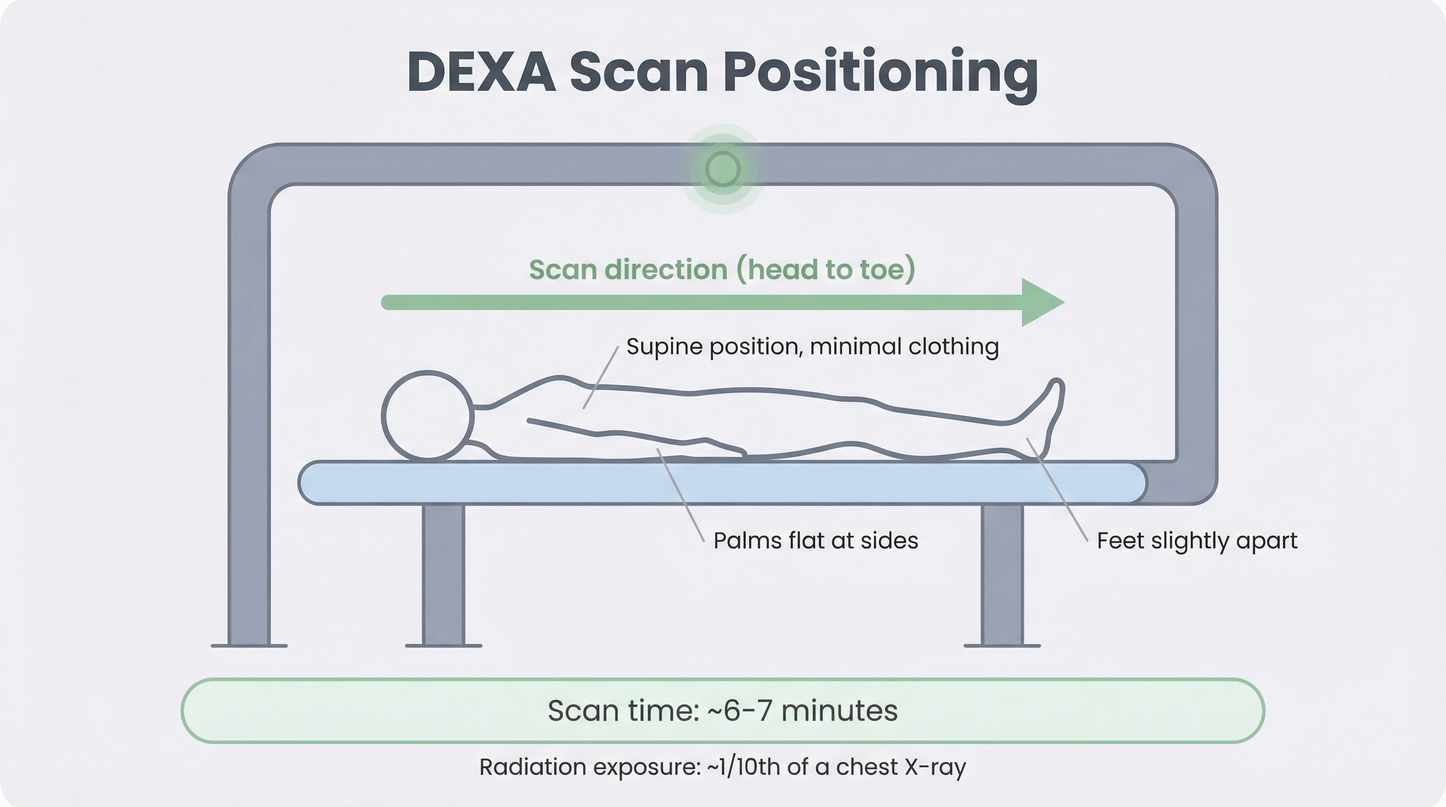
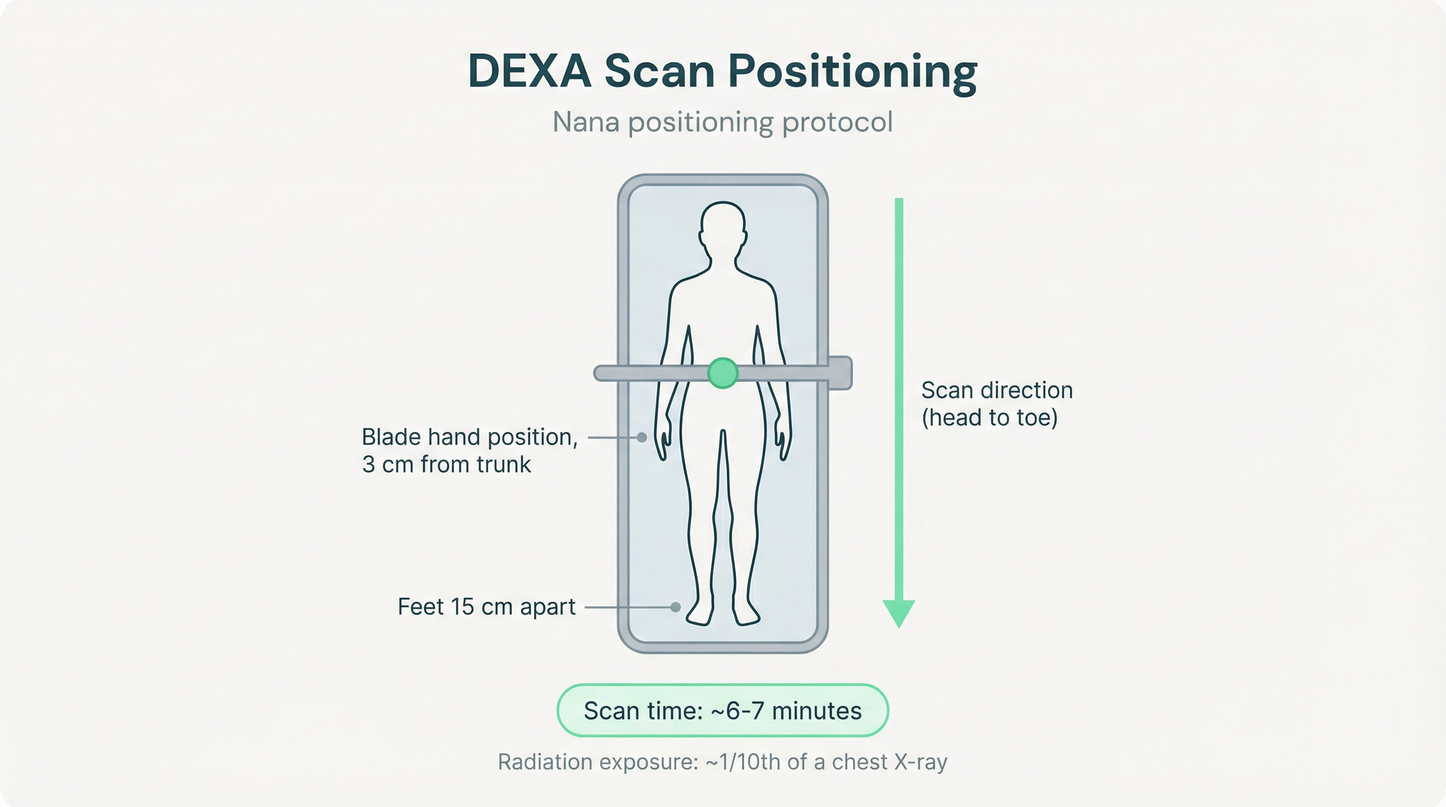
bl: Redesign DEXA scan positioning diagram with Nana protocol
Rewrite spec from scratch: switch from side-view to top-down bird's-eye
perspective, replace NHANES-style positioning with Nana protocol (blade
hand position 3 cm from trunk, feet 15 cm apart), and fix scanner
appearance from rectangular frame to realistic slim cantilever arm.

diff --git a/specs/diagrams/dexa-scan-position.md b/specs/diagrams/dexa-scan-position.md
@@ -9,52 +9,55 @@ output_path: content/assets/diagrams/dexa-scan-position.svg
 
 ## Purpose
 
-Show a patient correctly positioned for a DEXA body composition scan. The viewer should understand the physical setup: patient lies supine on a padded table, scanner arm passes overhead from head to toe, arms at sides, feet slightly apart. This helps set expectations for anyone unfamiliar with the scanning process.
+Show a patient correctly positioned for a DEXA body composition scan using the Nana positioning protocol. The viewer should understand the physical setup: patient lies supine on a flat padded table, a narrow scanning arm passes overhead from head to toe, feet are 15 cm apart, and hands are in a blade/mid-prone position with a small gap from the trunk. This helps set expectations for anyone unfamiliar with the scanning process.
 
 ## Visual Layout
 
 **Canvas:** 800 x 500px, landscape orientation. Background: #F8F8F8.
 
-### Main Illustration (center, y: 100-410)
+**IMPORTANT — Scanner Appearance:** The DEXA scanner must look like a real clinical DEXA scanner (e.g., Hologic Horizon or GE Lunar iDXA). It has a long flat padded table and a narrow overhead detector arm on a cantilever that travels along the table. Do NOT draw a large rectangular frame, box, or archway around the patient. The scanner arm is a slim horizontal bar extending from a vertical support on one side of the table.
 
-A simplified **side-view / profile illustration** of the scanning setup:
+**IMPORTANT — Top-Down View:** This diagram should be a bird's-eye / top-down view looking down at the patient on the table. This perspective best shows the Nana positioning protocol details (hand placement, foot spacing, body alignment).
 
-**DEXA Table:**
-- A long horizontal rounded rectangle (width ~600px, height ~30px) positioned at approximately y: 300. Fill: #DFE2E2, stroke: #7C8D90 2px, rx: 6.
-- Two table legs: Vertical rectangles (20px wide, 80px tall) beneath the table at each end. Fill: #7C8D90, rx: 3.
+### Main Illustration (center)
 
-**Patient (supine side-view, simplified line art):**
-- Positioned lying on the table, head to the left.
-- **Head:** Circle (r: 25), positioned at the left end of the table, resting just above the table surface. Stroke: #1C3133 2.5px, no fill.
-- **Torso:** Rounded rectangle (~200px wide, ~40px tall), rx: 8. Stroke: #1C3133 2.5px, no fill.
-- **Legs:** Two slightly separated horizontal rectangles (~180px each, ~18px tall), rx: 6. Stroke: #1C3133 2.5px, no fill.
-- **Arms at sides:** A thin horizontal rectangle (~150px, ~10px tall) positioned slightly below the torso, representing arms resting alongside the body. Stroke: #1C3133 2px, no fill.
+**DEXA Table (top-down view):**
+- A long vertical rounded rectangle representing the padded scanning surface, centered on the canvas. Fill: #DFE2E2 with a slightly lighter interior representing the padding. Stroke: #7C8D90 2px, rx: 8.
+- The table should be approximately 500px tall and 200px wide, oriented vertically (head at top, feet at bottom).
 
-**Scanner Arm (C-arm gantry):**
-- Positioned above the patient, spanning a portion of the table width.
-- **Top bar:** Horizontal rectangle (200px wide, 20px tall) at y: ~100. Fill: #7C8D90, stroke: #1C3133 1.5px, rx: 6.
-- **Vertical supports:** Two vertical rectangles (20px wide, ~200px tall) connecting the top bar down toward the table level. Fill: #7C8D90, stroke: #1C3133 1.5px, rx: 4.
-- **Source/detector indicator:** A small circle (r: 8) centered on the top bar, fill: #69D994, stroke: #1C3133 1.5px. This represents the X-ray emitter.
-- Label above: "Scanner arm" in 11px #7C8D90.
+**Patient (top-down view, simplified outline figure):**
+- Centered on the table, head toward the top.
+- **Head:** Oval/circle at the top of the table. Stroke: #1C3133 2.5px, no fill.
+- **Torso:** Simplified torso shape, slightly wider at shoulders tapering to waist. Stroke: #1C3133 2.5px, no fill.
+- **Arms:** Positioned at the sides of the torso with a visible small gap (~3 cm equivalent) between the hands and the trunk. Hands should be in a "blade" position (mid-prone, fingers together, hand turned sideways like a karate chop — NOT open palms). Stroke: #1C3133 2px, no fill.
+- **Legs:** Two legs slightly apart, extending down the table. Stroke: #1C3133 2.5px, no fill.
+- **Feet:** Separated by a visible gap (15 cm apart).
 
-**Scan direction arrow:**
-- A horizontal arrow from left to right, positioned between the scanner arm and the patient. Stroke: #69D994, 2px, with arrowhead marker.
-- Label: "Scan direction (head to toe)" in 11px #69D994.
+**Scanner Arm (shown as a horizontal line crossing the patient):**
+- A thin horizontal bar crossing the width of the table at roughly mid-torso level, representing the current position of the scanning arm. Stroke: #7C8D90 3px.
+- A small indicator dot on the arm. Fill: #69D994.
+
+**Scan Direction Arrow:**
+- A single vertical arrow alongside the table pointing straight down (head to toe). Stroke: #69D994, 2px, with arrowhead at the bottom.
+- Label: "Scan direction (head to toe)" in 11px #69D994, placed next to the arrow.
+- Do NOT rotate the label text. Keep it horizontal.
 
 ### Annotations (positioned around the main illustration)
 
-- **Supine position note:** Leader line pointing to the patient's torso. Text: "Supine position, minimal clothing" in 12px #1C3133.
-- **Palms note:** Leader line to the arms. Text: "Palms flat at sides" in 12px #1C3133.
-- **Feet note:** Leader line to the end of the legs. Text: "Feet slightly apart" in 12px #1C3133.
+- **Hand position note:** Leader line to one hand. Text: "Blade hand position, 3 cm from trunk" in 12px #1C3133.
+- **Foot spacing note:** Leader line to the feet. Text: "Feet 15 cm apart" in 12px #1C3133.
+- **Body alignment note:** Text near the top: "Centrally aligned on table" in 12px #7C8D90.
 
-### Bottom Info (y: 420-490)
+### Bottom Info (y: 440-490)
 
-- **Scan time badge:** Centered rounded rectangle (240px x 40px), fill: #E5F6EB, stroke: #69D994 1.5px, rx: 8. Text inside: "Scan time: ~6-7 minutes" in 14px medium #1C3133.
+- **Scan time badge:** Centered rounded rectangle (240px x 36px), fill: #E5F6EB, stroke: #69D994 1.5px, rx: 8. Text inside: "Scan time: ~6-7 minutes" in 14px medium #1C3133.
 - **Radiation note:** Centered text below the badge: "Radiation exposure: ~1/10th of a chest X-ray" in 12px #7C8D90.
 
 ## Title
 
-"DEXA Scan Positioning" -- centered at top (y: 40), Poppins 22px bold, #1C3133.
+"DEXA Scan Positioning" -- centered at top (y: 30), Poppins 22px bold, #1C3133.
+
+**Subtitle:** "Nana positioning protocol" in 13px #7C8D90.
 
 ## Color Palette
 
@@ -62,14 +65,15 @@ A simplified **side-view / profile illustration** of the scanning setup:
 |---------|-------|-----|
 | Background | Light gray | #F8F8F8 |
 | Patient outline, primary text | BodySpec dark | #1C3133 |
-| Muted text, table legs, scanner arm | BodySpec dark55 | #7C8D90 |
-| Table surface, borders | BodySpec dark15 | #DFE2E2 |
-| Scan direction, source indicator, badge bg | Salad 100 / Salad 60 | #69D994 / #E5F6EB |
+| Muted text, scanner arm | BodySpec dark55 | #7C8D90 |
+| Table surface | BodySpec dark15 | #DFE2E2 |
+| Positioning aids, scan indicator | Salad 100 / Salad lighter | #69D994 / #E5F6EB |
 
 ## Typography
 
 - **Font family:** Poppins, system-ui, -apple-system, sans-serif.
 - **Title:** 22px, weight 700.
+- **Subtitle:** 13px, weight 400.
 - **Badge text:** 14px, weight 500.
 - **Annotations:** 11-12px, weight 400.
 
@@ -80,13 +84,20 @@ A simplified **side-view / profile illustration** of the scanning setup:
 
 ## Accessibility
 
-- **Alt text:** "Side-view diagram of DEXA scan positioning showing a patient lying supine on a padded table with arms at their sides and feet slightly apart, while a scanner arm passes overhead from head to toe. The scan takes approximately 6 to 7 minutes with radiation exposure about one-tenth of a chest X-ray."
-- **SVG title element:** "DEXA body composition scan patient positioning diagram."
-- **No color-only encoding:** All elements are outlined with distinct shapes and labeled with text. The scanner arm, patient, and table are visually distinct through shape and stroke weight, not just color.
+- **Alt text:** "Top-down diagram of DEXA scan positioning using the Nana protocol. A patient lies supine and centrally aligned on a padded table. Hands are in a blade position with a 3 centimeter gap from the trunk. Feet are 15 centimeters apart. A scanning arm passes overhead from head to toe. The scan takes approximately 6 to 7 minutes with radiation exposure about one-tenth of a chest X-ray."
+- **SVG title element:** "DEXA body composition scan patient positioning diagram using Nana protocol."
+- **No color-only encoding:** All elements are outlined with distinct shapes and labeled with text. Positioning aids are identified by both color and label.
 - **Contrast:** Primary annotations in #1C3133 on #F8F8F8 provide excellent contrast (~12:1). Secondary annotations in #7C8D90 meet AA for large text.
 
 ## Design Notes
 
-- The patient figure should be **gender-neutral** and **simplified** -- a line-art silhouette rather than a detailed illustration. Avoid any identifying features.
-- The scanner arm should look like a medical device, not menacing. Use soft rounded rectangles and the green accent for the source indicator.
-- Ensure there is visual space between the scanner arm and patient to avoid a "claustrophobic" feel.
+- The patient figure should be **gender-neutral** and **simplified** — a clean outline silhouette, not a detailed illustration. Avoid any identifying features.
+- The top-down perspective is chosen specifically to show the spatial relationships that define the Nana protocol: blade hand position with gap from trunk, foot separation distance, and central body alignment.
+- Do NOT draw foam blocks, paddles, or other positioning aids. Just show the body in the correct position.
+- Do NOT draw the scanner as a large frame, box, or archway. The scanning arm is a slim bar that crosses over the table.
+
+## Data Accuracy
+
+- Nana protocol: Feet 15 cm apart, hands in blade/mid-prone position with 3 cm gap from trunk (Nana et al., 2012).
+- Scan time: ~6-7 minutes for whole-body composition scan.
+- Radiation: ~1-10 μSv, approximately 1/10th of a chest X-ray (IAEA RPOP).
